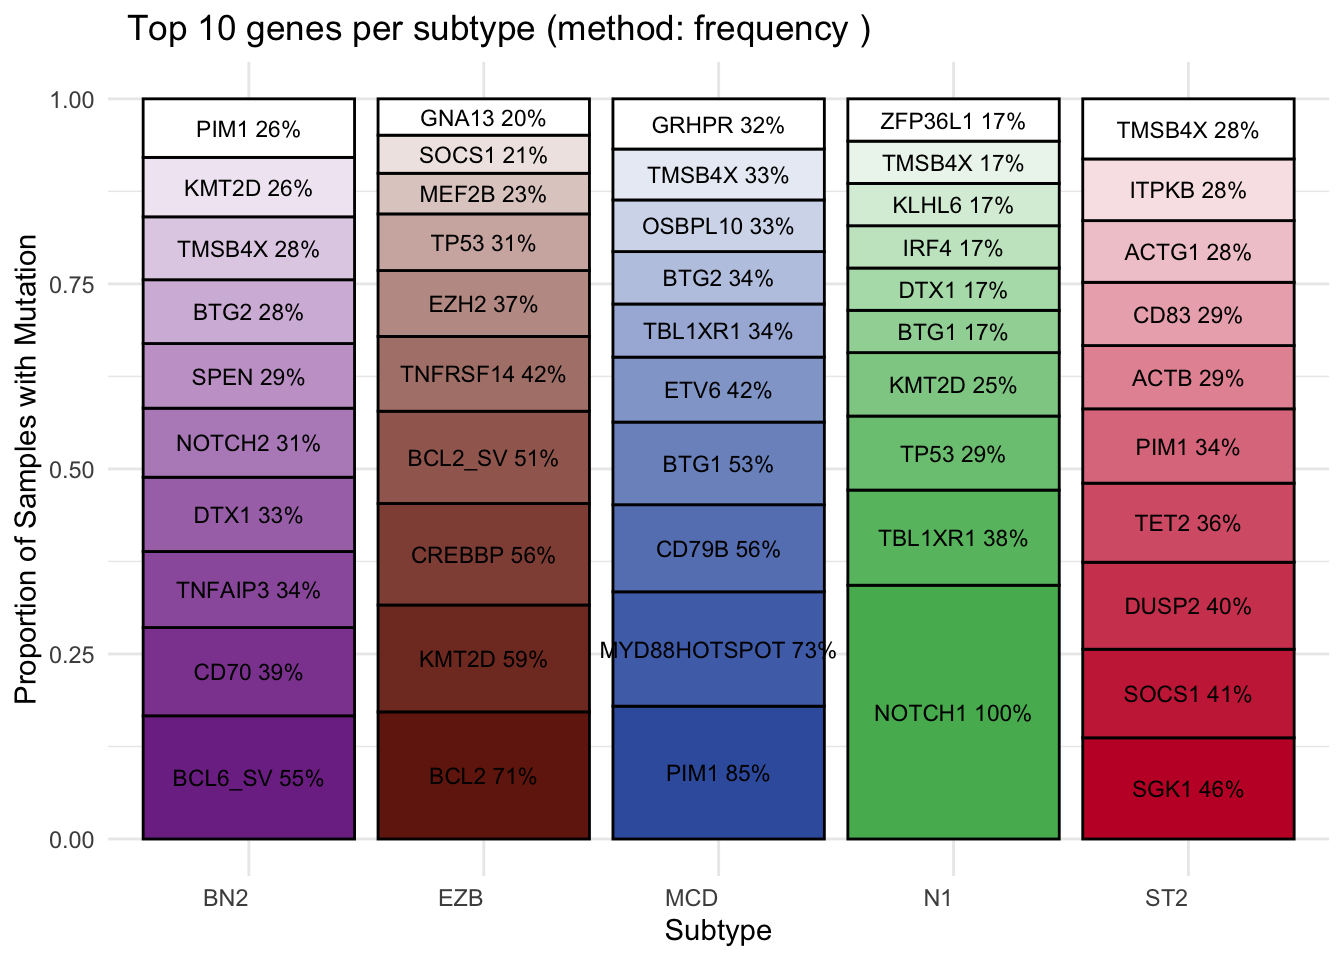
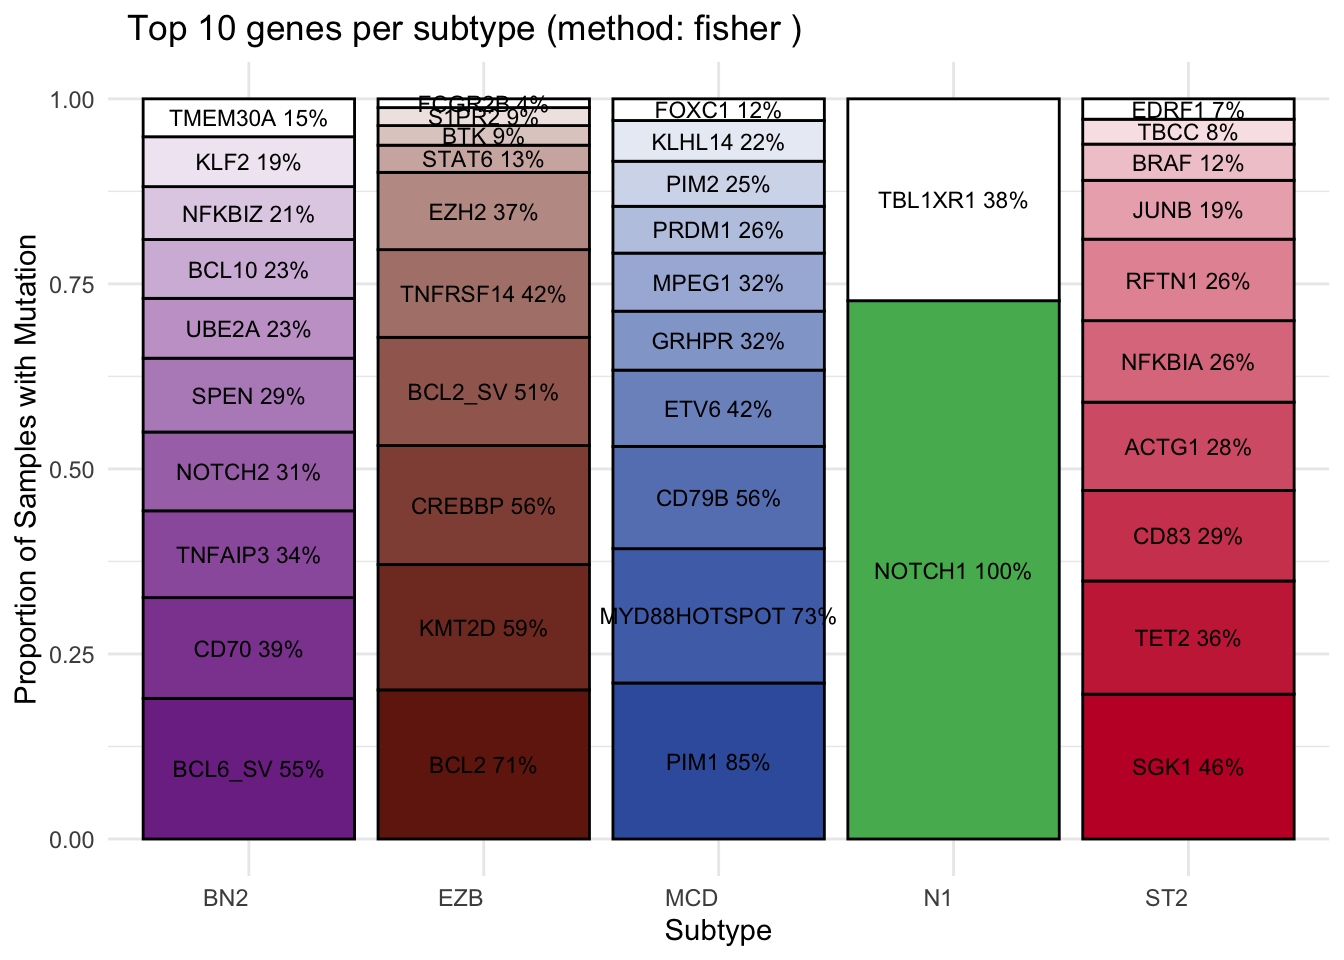
update docs

diff --git a/docs/articles/DLBCLone_optimize_params.html b/docs/articles/DLBCLone_optimize_params.html
@@ -194,16 +194,16 @@
 </table>
 </div>
 </div>
-</section><section class="section level3"><h3 id="overview-of-classifications-example-1">Overview of classifications, Example 1<a class="anchor" aria-label="anchor" href="#overview-of-classifications-example-1"></a>
+</section><section class="section level3"><h3 id="overview-of-classifications">Overview of classifications<a class="anchor" aria-label="anchor" href="#overview-of-classifications"></a>
 </h3>
 <section class="level3"><h4 id="posthoc_feature_enrichment">posthoc_feature_enrichment<a class="anchor" aria-label="anchor" href="#posthoc_feature_enrichment"></a>
 </h4>
-<p>Interested in the most contributing mutations per subtype? Whether it be the most frequently mutated, or the most significantly mutated via chi square subtype vs. rest? <code>posthoc_feature_enrichment</code> can help evaluate structure and potential biases in your training data. Bar and/or forest plots can be produced.</p>
+<p>Interested in the most contributing mutations per subtype? Whether it be the most frequently mutated, or the most significantly mutated via chi square subtype vs. rest? <code>posthoc_feature_enrichment</code> can help evaluate structure and potential biases in your training data. If Fisher or Chi-square test is used, bar plots and forest plots will be produced.</p>
 <p><code>sample_metadata</code> Data frame containing sample metadata with class labels, by default in a column named “lymphgen”. Use <code>label_column</code> to specify a different column</p>
 <p><code>features</code> Feature matrix with one row per sample and one column per mutation feature</p>
 <p><code>label_column</code> Name of the column containing the class labels (default: “lymphgen”)</p>
 <p><code>truth_classes</code> Vector of class labels to consider (default: c(“BN2”,“EZB”,“MCD”,“ST2”,“N1”))</p>
-<p><code>method</code> Method to determine top features: “frequency” for most abundant features, “chi_square” for top differentially mutated features in the classes vs all other classes (default : “frequency”)</p>
+<p><code>method</code> Method to determine top features: “frequency” for most abundant features, “chi_square” for top differentially mutated features in the classes vs all other classes or “fisher” to compare in-class vs out-class feature frequency across all classes (default : “frequency”)</p>
 <p><code>num_feats</code> Number of top features to display per subtype (default: 10)</p>
 <p><code>separate_plot_per_group</code> If TRUE, creates separate plots for each group and also combines them with ggarrange (default: FALSE).</p>
 <p><code>title</code> Title for the plot (default: NULL)</p>
@@ -214,7 +214,7 @@
 <code class="sourceCode R"><span><span class="va">plots</span><span class="op">&lt;-</span> <span class="fu"><a href="../reference/posthoc_feature_enrichment.html">posthoc_feature_enrichment</a></span><span class="op">(</span></span>
 <span>  sample_metadata <span class="op">=</span> <span class="va">all_features_optimized</span><span class="op">$</span><span class="va">predictions</span>,</span>
 <span>  features <span class="op">=</span> <span class="va">all_features_optimized</span><span class="op">$</span><span class="va">features</span>,</span>
-<span>  method <span class="op">=</span> <span class="st">"frequency"</span></span>
+<span>  method <span class="op">=</span> <span class="st">"fisher"</span></span>
 <span><span class="op">)</span></span></code></pre></div>
 </div>
 <div class="cell">
@@ -230,8 +230,11 @@
 <div class="cell">
 <div class="sourceCode cell-code" id="cb5"><pre class="downlit sourceCode r">
 <code class="sourceCode R"><span><span class="va">plots</span><span class="op">$</span><span class="va">forest_plot</span></span></code></pre></div>
-<div class="cell-output cell-output-stdout">
-<pre><code><span><span class="cn">NULL</span></span></code></pre>
+<div class="cell-output-display">
+<div>
+<figure><p><img src="DLBCLone_optimize_params_files/figure-html/unnamed-chunk-4-1.png" width="672"></p>
+</figure>
+</div>
 </div>
 </div>
 </section><section class="level3"><h4 id="basic_umap_scatterplot">basic_umap_scatterplot<a class="anchor" aria-label="anchor" href="#basic_umap_scatterplot"></a>
@@ -247,7 +250,7 @@
 <p><code>use_plotly</code> if FALSE and <code>plot_samples</code> provided, draw static</p>
 <p><code>custom_colours</code> custom color palette for the plot. If not provided, uses default GAMBL colors</p>
 <div class="cell">
-<div class="sourceCode cell-code" id="cb7"><pre class="downlit sourceCode r">
+<div class="sourceCode cell-code" id="cb6"><pre class="downlit sourceCode r">
 <code class="sourceCode R"><span><span class="fu"><a href="../reference/basic_umap_scatterplot.html">basic_umap_scatterplot</a></span><span class="op">(</span></span>
 <span>  <span class="va">all_features_optimized</span><span class="op">$</span><span class="va">prediction</span>, </span>
 <span>  colour_by <span class="op">=</span> <span class="st">"lymphgen"</span>,</span>
@@ -269,7 +272,7 @@
 <p><code>pred_name</code> name for the predicted class column</p>
 <p>DLBCLone with outgroup optimization (“wo”) w for weighted, o for optimized for other.</p>
 <div class="cell">
-<div class="sourceCode cell-code" id="cb8"><pre class="downlit sourceCode r">
+<div class="sourceCode cell-code" id="cb7"><pre class="downlit sourceCode r">
 <code class="sourceCode R"><span><span class="fu"><a href="../reference/make_alluvial.html">make_alluvial</a></span><span class="op">(</span><span class="va">all_features_optimized</span>,pred_column <span class="op">=</span> <span class="st">"DLBCLone_wo"</span>,pred_name <span class="op">=</span> <span class="st">"DLBCLone_wo"</span><span class="op">)</span></span></code></pre></div>
 <div class="cell-output-display">
 <div>
@@ -279,7 +282,7 @@
 </div>
 </div>
 <div class="cell">
-<div class="sourceCode cell-code" id="cb9"><pre class="downlit sourceCode r">
+<div class="sourceCode cell-code" id="cb8"><pre class="downlit sourceCode r">
 <code class="sourceCode R"><span><span class="fu"><a href="../reference/basic_umap_scatterplot.html">basic_umap_scatterplot</a></span><span class="op">(</span></span>
 <span>  <span class="va">all_features_optimized</span><span class="op">$</span><span class="va">prediction</span>, </span>
 <span>  colour_by <span class="op">=</span> <span class="st">"DLBCLone_wo"</span>,</span>
@@ -297,7 +300,7 @@
 </h4>
 <p>Generates and saves a set of summary plots as PDF, and tables for a DLBCLone model in a preallocated folder. This summary includes; UMAP scatterplots, alluvial plots, and oncoplots.</p>
 <div class="cell">
-<div class="sourceCode cell-code" id="cb10"><pre class="downlit sourceCode r">
+<div class="sourceCode cell-code" id="cb9"><pre class="downlit sourceCode r">
 <code class="sourceCode R"><span><span class="fu"><a href="../reference/DLBCLone_summarize_model.html">DLBCLone_summarize_model</a></span><span class="op">(</span></span>
 <span>  optimized_model <span class="op">=</span> <span class="va">all_features_optimized</span>,</span>
 <span>  base_name<span class="op">=</span><span class="st">"model_summaries/all_full_status"</span></span>
@@ -308,7 +311,7 @@
 <p>When looking at w for weighted, not wo for weighted and optimized for other, DLBCLone outputs its greedy search strategy, aiming to classify as many samples as possible, even at low confidence levels. This approach can reveal trends in the underlying data structure, but it also increases the risk of assigning low-confidence predicted labels.</p>
 <p>DLBCLone without outgroup optimization (“w”) w for weighted.</p>
 <div class="cell">
-<div class="sourceCode cell-code" id="cb11"><pre class="downlit sourceCode r">
+<div class="sourceCode cell-code" id="cb10"><pre class="downlit sourceCode r">
 <code class="sourceCode R"><span><span class="fu"><a href="../reference/make_alluvial.html">make_alluvial</a></span><span class="op">(</span><span class="va">all_features_optimized</span>,pred_column <span class="op">=</span> <span class="st">"DLBCLone_w"</span>,pred_name <span class="op">=</span> <span class="st">"DLBCLone_w"</span><span class="op">)</span></span></code></pre></div>
 <div class="cell-output-display">
 <div>
@@ -318,7 +321,7 @@
 </div>
 </div>
 <div class="cell">
-<div class="sourceCode cell-code" id="cb12"><pre class="downlit sourceCode r">
+<div class="sourceCode cell-code" id="cb11"><pre class="downlit sourceCode r">
 <code class="sourceCode R"><span><span class="fu"><a href="../reference/basic_umap_scatterplot.html">basic_umap_scatterplot</a></span><span class="op">(</span></span>
 <span>  <span class="va">all_features_optimized</span><span class="op">$</span><span class="va">prediction</span>, </span>
 <span>  colour_by <span class="op">=</span> <span class="st">"DLBCLone_w"</span>,</span>
@@ -341,7 +344,7 @@
 <p><code>any_split</code> if TRUE: any split among in-group votes across the Ks tested will triggers reassignment (or composite)</p>
 <p><code>optimize_per_class</code> if TRUE: a range of thresholds will be tested per class to optimize the classification/Other cutoff</p>
 <div class="cell">
-<div class="sourceCode cell-code" id="cb13"><pre class="downlit sourceCode r">
+<div class="sourceCode cell-code" id="cb12"><pre class="downlit sourceCode r">
 <code class="sourceCode R"><span><span class="va">postprocess_params</span> <span class="op">&lt;-</span> <span class="fu"><a href="../reference/DLBCLone_ensemble_postprocess.html">DLBCLone_ensemble_postprocess</a></span><span class="op">(</span></span>
 <span>  optimized_model <span class="op">=</span> <span class="va">all_features_optimized</span>,</span>
 <span>  other_min <span class="op">=</span> <span class="fl">3</span>,</span>
